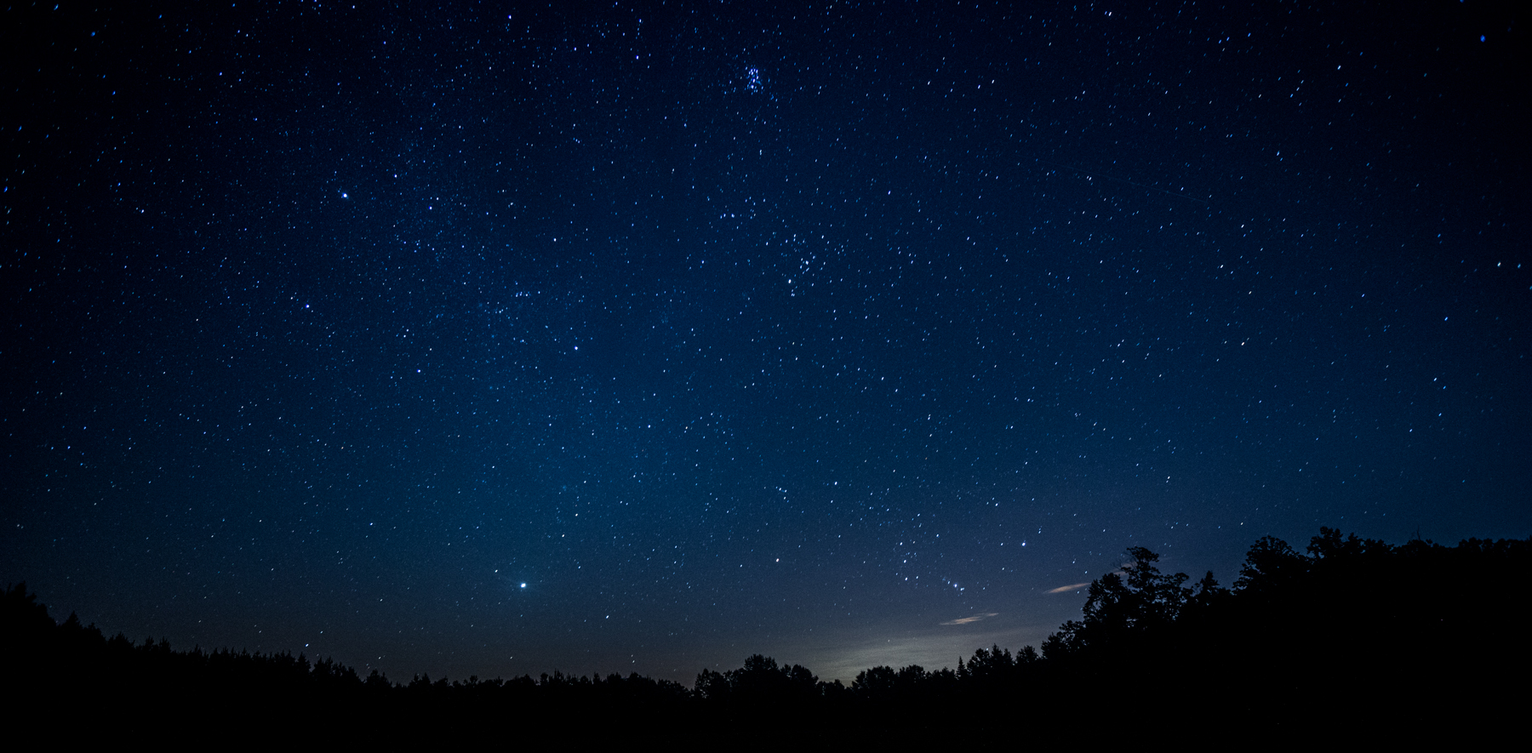
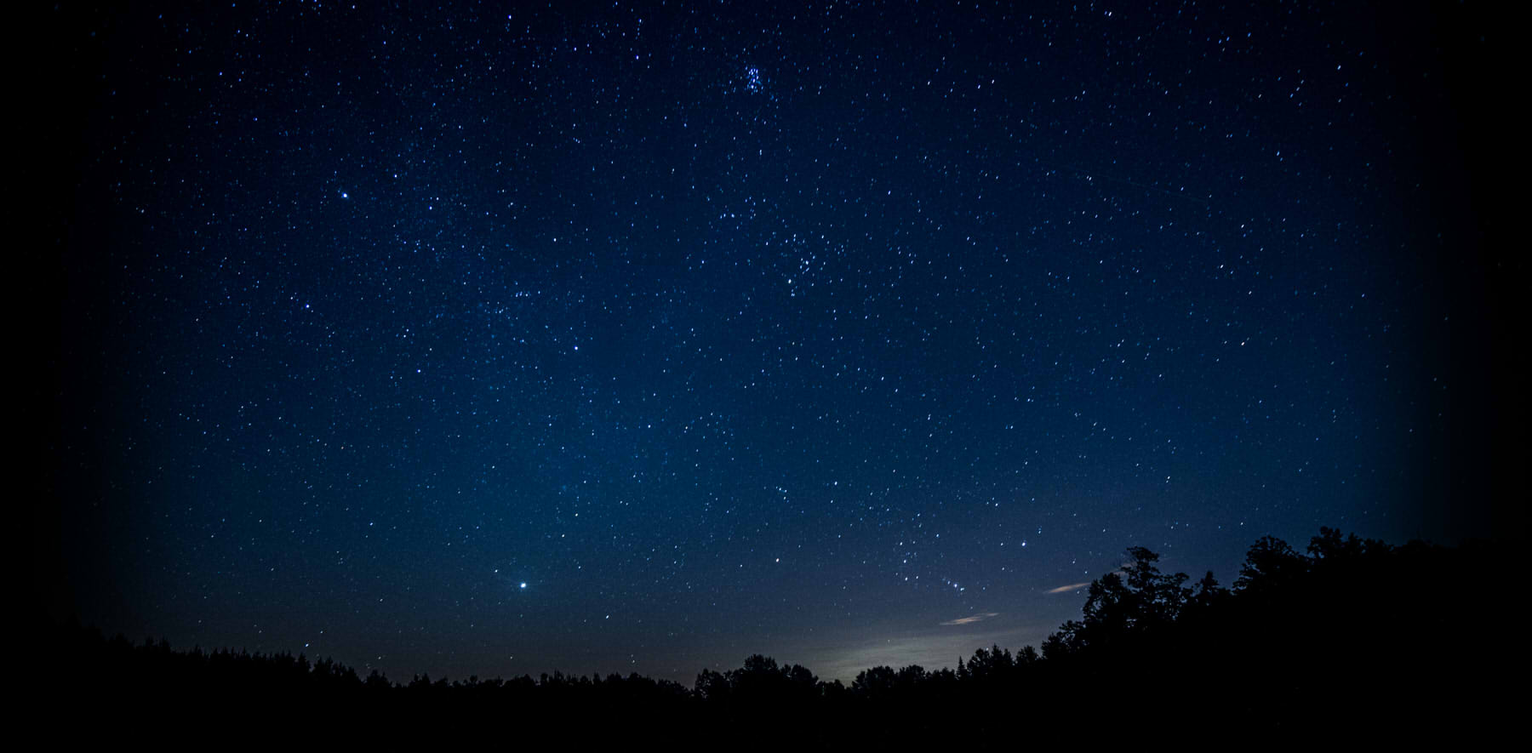
more styling

Changed region(s): [[0.9022, 0.2746, 1.0, 0.7322], [0.0, 0.5186, 0.0933, 0.8237]]

diff --git a/script.js b/script.js
@@ -1,3 +1,3 @@
 (()=>{var me=(v,c)=>()=>(c||v((c={exports:{}}).exports,c),c.exports);var re=me((k,B)=>{(function(v,c){typeof k=="object"&&typeof B=="object"?B.exports=c():typeof define=="function"&&define.amd?define("Typewriter",[],c):typeof k=="object"?k.Typewriter=c():v.Typewriter=c()})(typeof self!="undefined"?self:k,function(){return function(v){var c={};function r(n){if(c[n])return c[n].exports;var o=c[n]={i:n,l:!1,exports:{}};return v[n].call(o.exports,o,o.exports,r),o.l=!0,o.exports}return r.m=v,r.c=c,r.d=function(n,o,p){r.o(n,o)||Object.defineProperty(n,o,{enumerable:!0,get:p})},r.r=function(n){typeof Symbol!="undefined"&&Symbol.toStringTag&&Object.defineProperty(n,Symbol.toStringTag,{value:"Module"}),Object.defineProperty(n,"__esModule",{value:!0})},r.t=function(n,o){if(1&o&&(n=r(n)),8&o||4&o&&typeof n=="object"&&n&&n.__esModule)return n;var p=Object.create(null);if(r.r(p),Object.defineProperty(p,"default",{enumerable:!0,value:n}),2&o&&typeof n!="string")for(var b in n)r.d(p,b,function(A){return n[A]}.bind(null,b));return p},r.n=function(n){var o=n&&n.__esModule?function(){return n.default}:function(){return n};return r.d(o,"a",o),o},r.o=function(n,o){return Object.prototype.hasOwnProperty.call(n,o)},r.p="",r(r.s=3)}([,function(v,c,r){(function(n){for(var o=r(11),p=typeof window=="undefined"?n:window,b=["moz","webkit"],A="AnimationFrame",T=p["request"+A],h=p["cancel"+A]||p["cancelRequest"+A],g=0;!T&&g<b.length;g++)T=p[b[g]+"Request"+A],h=p[b[g]+"Cancel"+A]||p[b[g]+"CancelRequest"+A];if(!T||!h){var _=0,L=0,N=[];T=function(S){if(N.length===0){var y=o(),f=Math.max(0,1e3/60-(y-_));_=f+y,setTimeout(function(){var C=N.slice(0);N.length=0;for(var w=0;w<C.length;w++)if(!C[w].cancelled)try{C[w].callback(_)}catch(P){setTimeout(function(){throw P},0)}},Math.round(f))}return N.push({handle:++L,callback:S,cancelled:!1}),L},h=function(S){for(var y=0;y<N.length;y++)N[y].handle===S&&(N[y].cancelled=!0)}}v.exports=function(S){return T.call(p,S)},v.exports.cancel=function(){h.apply(p,arguments)},v.exports.polyfill=function(S){S||(S=p),S.requestAnimationFrame=T,S.cancelAnimationFrame=h}}).call(this,r(4))},,function(v,c,r){"use strict";r.r(c),r.d(c,"default",function(){return ae});var n=r(1),o=r.n(n),p=function(i){return new RegExp(/<[a-z][\s\S]*>/i).test(i)},b=function(i){var a=document.createElement("div");return a.innerHTML=i,a.childNodes},A=function(i,a){return Math.floor(Math.random()*(a-i+1))+i},T=function(i){var a=document.createElement("style");a.appendChild(document.createTextNode(i)),document.head.appendChild(a)},h="TYPE_CHARACTER",g="REMOVE_CHARACTER",_="REMOVE_ALL",L="REMOVE_LAST_VISIBLE_NODE",N="PAUSE_FOR",S="CALL_FUNCTION",y="ADD_HTML_TAG_ELEMENT",f="CHANGE_DELETE_SPEED",C="CHANGE_DELAY",w="CHANGE_CURSOR",P="PASTE_STRING",I="HTML_TAG",oe="TEXT_NODE";function z(i,a){var l=Object.keys(i);if(Object.getOwnPropertySymbols){var s=Object.getOwnPropertySymbols(i);a&&(s=s.filter(function(x){return Object.getOwnPropertyDescriptor(i,x).enumerable})),l.push.apply(l,s)}return l}function F(i){for(var a=1;a<arguments.length;a++){var l=arguments[a]!=null?arguments[a]:{};a%2?z(Object(l),!0).forEach(function(s){m(i,s,l[s])}):Object.getOwnPropertyDescriptors?Object.defineProperties(i,Object.getOwnPropertyDescriptors(l)):z(Object(l)).forEach(function(s){Object.defineProperty(i,s,Object.getOwnPropertyDescriptor(l,s))})}return i}function j(i){return function(a){if(Array.isArray(a))return U(a)}(i)||function(a){if(typeof Symbol!="undefined"&&Symbol.iterator in Object(a))return Array.from(a)}(i)||function(a,l){if(!!a){if(typeof a=="string")return U(a,l);var s=Object.prototype.toString.call(a).slice(8,-1);if(s==="Object"&&a.constructor&&(s=a.constructor.name),s==="Map"||s==="Set")return Array.from(a);if(s==="Arguments"||/^(?:Ui|I)nt(?:8|16|32)(?:Clamped)?Array$/.test(s))return U(a,l)}}(i)||function(){throw new TypeError(`Invalid attempt to spread non-iterable instance.
-In order to be iterable, non-array objects must have a [Symbol.iterator]() method.`)}()}function U(i,a){(a==null||a>i.length)&&(a=i.length);for(var l=0,s=new Array(a);l<a;l++)s[l]=i[l];return s}function J(i,a){for(var l=0;l<a.length;l++){var s=a[l];s.enumerable=s.enumerable||!1,s.configurable=!0,"value"in s&&(s.writable=!0),Object.defineProperty(i,s.key,s)}}function m(i,a,l){return a in i?Object.defineProperty(i,a,{value:l,enumerable:!0,configurable:!0,writable:!0}):i[a]=l,i}var ae=function(){function i(x,X){var e=this;if(function(t,d){if(!(t instanceof d))throw new TypeError("Cannot call a class as a function")}(this,i),m(this,"state",{cursorAnimation:null,lastFrameTime:null,pauseUntil:null,eventQueue:[],eventLoop:null,eventLoopPaused:!1,reverseCalledEvents:[],calledEvents:[],visibleNodes:[],initialOptions:null,elements:{container:null,wrapper:document.createElement("span"),cursor:document.createElement("span")}}),m(this,"options",{strings:null,cursor:"|",delay:"natural",pauseFor:1500,deleteSpeed:"natural",loop:!1,autoStart:!1,devMode:!1,skipAddStyles:!1,wrapperClassName:"Typewriter__wrapper",cursorClassName:"Typewriter__cursor",stringSplitter:null,onCreateTextNode:null,onRemoveNode:null}),m(this,"setupWrapperElement",function(){e.state.elements.container&&(e.state.elements.wrapper.className=e.options.wrapperClassName,e.state.elements.cursor.className=e.options.cursorClassName,e.state.elements.cursor.innerHTML=e.options.cursor,e.state.elements.container.innerHTML="",e.state.elements.container.appendChild(e.state.elements.wrapper),e.state.elements.container.appendChild(e.state.elements.cursor))}),m(this,"start",function(){return e.state.eventLoopPaused=!1,e.runEventLoop(),e}),m(this,"pause",function(){return e.state.eventLoopPaused=!0,e}),m(this,"stop",function(){return e.state.eventLoop&&(Object(n.cancel)(e.state.eventLoop),e.state.eventLoop=null),e}),m(this,"pauseFor",function(t){return e.addEventToQueue(N,{ms:t}),e}),m(this,"typeOutAllStrings",function(){return typeof e.options.strings=="string"?(e.typeString(e.options.strings).pauseFor(e.options.pauseFor),e):(e.options.strings.forEach(function(t){e.typeString(t).pauseFor(e.options.pauseFor).deleteAll(e.options.deleteSpeed)}),e)}),m(this,"typeString",function(t){var d=arguments.length>1&&arguments[1]!==void 0?arguments[1]:null;if(p(t))return e.typeOutHTMLString(t,d);if(t){var E=e.options||{},u=E.stringSplitter,M=typeof u=="function"?u(t):t.split("");e.typeCharacters(M,d)}return e}),m(this,"pasteString",function(t){var d=arguments.length>1&&arguments[1]!==void 0?arguments[1]:null;return p(t)?e.typeOutHTMLString(t,d,!0):(t&&e.addEventToQueue(P,{character:t,node:d}),e)}),m(this,"typeOutHTMLString",function(t){var d=arguments.length>1&&arguments[1]!==void 0?arguments[1]:null,E=arguments.length>2?arguments[2]:void 0,u=b(t);if(u.length>0)for(var M=0;M<u.length;M++){var O=u[M],D=O.innerHTML;O&&O.nodeType!==3?(O.innerHTML="",e.addEventToQueue(y,{node:O,parentNode:d}),E?e.pasteString(D,O):e.typeString(D,O)):O.textContent&&(E?e.pasteString(O.textContent,d):e.typeString(O.textContent,d))}return e}),m(this,"deleteAll",function(){var t=arguments.length>0&&arguments[0]!==void 0?arguments[0]:"natural";return e.addEventToQueue(_,{speed:t}),e}),m(this,"changeDeleteSpeed",function(t){if(!t)throw new Error("Must provide new delete speed");return e.addEventToQueue(f,{speed:t}),e}),m(this,"changeDelay",function(t){if(!t)throw new Error("Must provide new delay");return e.addEventToQueue(C,{delay:t}),e}),m(this,"changeCursor",function(t){if(!t)throw new Error("Must provide new cursor");return e.addEventToQueue(w,{cursor:t}),e}),m(this,"deleteChars",function(t){if(!t)throw new Error("Must provide amount of characters to delete");for(var d=0;d<t;d++)e.addEventToQueue(g);return e}),m(this,"callFunction",function(t,d){if(!t||typeof t!="function")throw new Error("Callbak must be a function");return e.addEventToQueue(S,{cb:t,thisArg:d}),e}),m(this,"typeCharacters",function(t){var d=arguments.length>1&&arguments[1]!==void 0?arguments[1]:null;if(!t||!Array.isArray(t))throw new Error("Characters must be an array");return t.forEach(function(E){e.addEventToQueue(h,{character:E,node:d})}),e}),m(this,"removeCharacters",function(t){if(!t||!Array.isArray(t))throw new Error("Characters must be an array");return t.forEach(function(){e.addEventToQueue(g)}),e}),m(this,"addEventToQueue",function(t,d){var E=arguments.length>2&&arguments[2]!==void 0&&arguments[2];return e.addEventToStateProperty(t,d,E,"eventQueue")}),m(this,"addReverseCalledEvent",function(t,d){var E=arguments.length>2&&arguments[2]!==void 0&&arguments[2],u=e.options.loop;return u?e.addEventToStateProperty(t,d,E,"reverseCalledEvents"):e}),m(this,"addEventToStateProperty",function(t,d){var E=arguments.length>2&&arguments[2]!==void 0&&arguments[2],u=arguments.length>3?arguments[3]:void 0,M={eventName:t,eventArgs:d||{}};return e.state[u]=E?[M].concat(j(e.state[u])):[].concat(j(e.state[u]),[M]),e}),m(this,"runEventLoop",function(){e.state.lastFrameTime||(e.state.lastFrameTime=Date.now());var t=Date.now(),d=t-e.state.lastFrameTime;if(!e.state.eventQueue.length){if(!e.options.loop)return;e.state.eventQueue=j(e.state.calledEvents),e.state.calledEvents=[],e.options=F({},e.state.initialOptions)}if(e.state.eventLoop=o()(e.runEventLoop),!e.state.eventLoopPaused){if(e.state.pauseUntil){if(t<e.state.pauseUntil)return;e.state.pauseUntil=null}var E=j(e.state.eventQueue),u=E.shift(),M=0;if(!(d<=(M=u.eventName===L||u.eventName===g?e.options.deleteSpeed==="natural"?A(40,80):e.options.deleteSpeed:e.options.delay==="natural"?A(120,160):e.options.delay))){var O=u.eventName,D=u.eventArgs;switch(e.logInDevMode({currentEvent:u,state:e.state,delay:M}),O){case P:case h:var G=D.character,K=D.node,Z=document.createTextNode(G),R=Z;e.options.onCreateTextNode&&typeof e.options.onCreateTextNode=="function"&&(R=e.options.onCreateTextNode(G,Z)),R&&(K?K.appendChild(R):e.state.elements.wrapper.appendChild(R)),e.state.visibleNodes=[].concat(j(e.state.visibleNodes),[{type:oe,character:G,node:R}]);break;case g:E.unshift({eventName:L,eventArgs:{removingCharacterNode:!0}});break;case N:var ie=u.eventArgs.ms;e.state.pauseUntil=Date.now()+parseInt(ie);break;case S:var ee=u.eventArgs,se=ee.cb,ue=ee.thisArg;se.call(ue,{elements:e.state.elements});break;case y:var te=u.eventArgs,q=te.node,W=te.parentNode;W?W.appendChild(q):e.state.elements.wrapper.appendChild(q),e.state.visibleNodes=[].concat(j(e.state.visibleNodes),[{type:I,node:q,parentNode:W||e.state.elements.wrapper}]);break;case _:var ce=e.state.visibleNodes,V=D.speed,Q=[];V&&Q.push({eventName:f,eventArgs:{speed:V,temp:!0}});for(var ne=0,le=ce.length;ne<le;ne++)Q.push({eventName:L,eventArgs:{removingCharacterNode:!1}});V&&Q.push({eventName:f,eventArgs:{speed:e.options.deleteSpeed,temp:!0}}),E.unshift.apply(E,Q);break;case L:var pe=u.eventArgs.removingCharacterNode;if(e.state.visibleNodes.length){var Y=e.state.visibleNodes.pop(),de=Y.type,H=Y.node,fe=Y.character;e.options.onRemoveNode&&typeof e.options.onRemoveNode=="function"&&e.options.onRemoveNode({node:H,character:fe}),H&&H.parentNode.removeChild(H),de===I&&pe&&E.unshift({eventName:L,eventArgs:{}})}break;case f:e.options.deleteSpeed=u.eventArgs.speed;break;case C:e.options.delay=u.eventArgs.delay;break;case w:e.options.cursor=u.eventArgs.cursor,e.state.elements.cursor.innerHTML=u.eventArgs.cursor}e.options.loop&&(u.eventName===L||u.eventArgs&&u.eventArgs.temp||(e.state.calledEvents=[].concat(j(e.state.calledEvents),[u]))),e.state.eventQueue=E,e.state.lastFrameTime=t}}}),x)if(typeof x=="string"){var $=document.querySelector(x);if(!$)throw new Error("Could not find container element");this.state.elements.container=$}else this.state.elements.container=x;X&&(this.options=F(F({},this.options),X)),this.state.initialOptions=F({},this.options),this.init()}var a,l,s;return a=i,(l=[{key:"init",value:function(){this.setupWrapperElement(),this.addEventToQueue(w,{cursor:this.options.cursor},!0),this.addEventToQueue(_,null,!0),!window||window.___TYPEWRITER_JS_STYLES_ADDED___||this.options.skipAddStyles||(T(".Typewriter__cursor{-webkit-animation:Typewriter-cursor 1s infinite;animation:Typewriter-cursor 1s infinite;margin-left:1px}@-webkit-keyframes Typewriter-cursor{0%{opacity:0}50%{opacity:1}100%{opacity:0}}@keyframes Typewriter-cursor{0%{opacity:0}50%{opacity:1}100%{opacity:0}}"),window.___TYPEWRITER_JS_STYLES_ADDED___=!0),this.options.autoStart===!0&&this.options.strings&&this.typeOutAllStrings().start()}},{key:"logInDevMode",value:function(x){this.options.devMode&&console.log(x)}}])&&J(a.prototype,l),s&&J(a,s),i}()},function(v,c){var r;r=function(){return this}();try{r=r||new Function("return this")()}catch(n){typeof window=="object"&&(r=window)}v.exports=r},,,,,,,function(v,c,r){(function(n){(function(){var o,p,b,A,T,h;typeof performance!="undefined"&&performance!==null&&performance.now?v.exports=function(){return performance.now()}:n!=null&&n.hrtime?(v.exports=function(){return(o()-T)/1e6},p=n.hrtime,A=(o=function(){var g;return 1e9*(g=p())[0]+g[1]})(),h=1e9*n.uptime(),T=A-h):Date.now?(v.exports=function(){return Date.now()-b},b=Date.now()):(v.exports=function(){return new Date().getTime()-b},b=new Date().getTime())}).call(this)}).call(this,r(12))},function(v,c){var r,n,o=v.exports={};function p(){throw new Error("setTimeout has not been defined")}function b(){throw new Error("clearTimeout has not been defined")}function A(f){if(r===setTimeout)return setTimeout(f,0);if((r===p||!r)&&setTimeout)return r=setTimeout,setTimeout(f,0);try{return r(f,0)}catch(C){try{return r.call(null,f,0)}catch(w){return r.call(this,f,0)}}}(function(){try{r=typeof setTimeout=="function"?setTimeout:p}catch(f){r=p}try{n=typeof clearTimeout=="function"?clearTimeout:b}catch(f){n=b}})();var T,h=[],g=!1,_=-1;function L(){g&&T&&(g=!1,T.length?h=T.concat(h):_=-1,h.length&&N())}function N(){if(!g){var f=A(L);g=!0;for(var C=h.length;C;){for(T=h,h=[];++_<C;)T&&T[_].run();_=-1,C=h.length}T=null,g=!1,function(w){if(n===clearTimeout)return clearTimeout(w);if((n===b||!n)&&clearTimeout)return n=clearTimeout,clearTimeout(w);try{n(w)}catch(P){try{return n.call(null,w)}catch(I){return n.call(this,w)}}}(f)}}function S(f,C){this.fun=f,this.array=C}function y(){}o.nextTick=function(f){var C=new Array(arguments.length-1);if(arguments.length>1)for(var w=1;w<arguments.length;w++)C[w-1]=arguments[w];h.push(new S(f,C)),h.length!==1||g||A(N)},S.prototype.run=function(){this.fun.apply(null,this.array)},o.title="browser",o.browser=!0,o.env={},o.argv=[],o.version="",o.versions={},o.on=y,o.addListener=y,o.once=y,o.off=y,o.removeListener=y,o.removeAllListeners=y,o.emit=y,o.prependListener=y,o.prependOnceListener=y,o.listeners=function(f){return[]},o.binding=function(f){throw new Error("process.binding is not supported")},o.cwd=function(){return"/"},o.chdir=function(f){throw new Error("process.chdir is not supported")},o.umask=function(){return 0}}]).default})});var ve=re();window.addEventListener("DOMContentLoaded",()=>{let v=document.getElementById("cycle"),c=["Interactive Experiences","Functional Websites","Your Next Dream Project"],r=1e3;new ve(v,{loop:!0,delay:75,deleteSpeed:25}).pauseFor(r).typeString(c[0]).pauseFor(r*2).deleteChars(c[0].length).pauseFor(r).typeString(c[1]).pauseFor(r*2).deleteChars(c[1].length).pauseFor(r).typeString(c[2]).pauseFor(r*2).deleteChars(c[2].length).pauseFor(r).start()});})();
+In order to be iterable, non-array objects must have a [Symbol.iterator]() method.`)}()}function U(i,a){(a==null||a>i.length)&&(a=i.length);for(var l=0,s=new Array(a);l<a;l++)s[l]=i[l];return s}function J(i,a){for(var l=0;l<a.length;l++){var s=a[l];s.enumerable=s.enumerable||!1,s.configurable=!0,"value"in s&&(s.writable=!0),Object.defineProperty(i,s.key,s)}}function m(i,a,l){return a in i?Object.defineProperty(i,a,{value:l,enumerable:!0,configurable:!0,writable:!0}):i[a]=l,i}var ae=function(){function i(x,X){var e=this;if(function(t,d){if(!(t instanceof d))throw new TypeError("Cannot call a class as a function")}(this,i),m(this,"state",{cursorAnimation:null,lastFrameTime:null,pauseUntil:null,eventQueue:[],eventLoop:null,eventLoopPaused:!1,reverseCalledEvents:[],calledEvents:[],visibleNodes:[],initialOptions:null,elements:{container:null,wrapper:document.createElement("span"),cursor:document.createElement("span")}}),m(this,"options",{strings:null,cursor:"|",delay:"natural",pauseFor:1500,deleteSpeed:"natural",loop:!1,autoStart:!1,devMode:!1,skipAddStyles:!1,wrapperClassName:"Typewriter__wrapper",cursorClassName:"Typewriter__cursor",stringSplitter:null,onCreateTextNode:null,onRemoveNode:null}),m(this,"setupWrapperElement",function(){e.state.elements.container&&(e.state.elements.wrapper.className=e.options.wrapperClassName,e.state.elements.cursor.className=e.options.cursorClassName,e.state.elements.cursor.innerHTML=e.options.cursor,e.state.elements.container.innerHTML="",e.state.elements.container.appendChild(e.state.elements.wrapper),e.state.elements.container.appendChild(e.state.elements.cursor))}),m(this,"start",function(){return e.state.eventLoopPaused=!1,e.runEventLoop(),e}),m(this,"pause",function(){return e.state.eventLoopPaused=!0,e}),m(this,"stop",function(){return e.state.eventLoop&&(Object(n.cancel)(e.state.eventLoop),e.state.eventLoop=null),e}),m(this,"pauseFor",function(t){return e.addEventToQueue(N,{ms:t}),e}),m(this,"typeOutAllStrings",function(){return typeof e.options.strings=="string"?(e.typeString(e.options.strings).pauseFor(e.options.pauseFor),e):(e.options.strings.forEach(function(t){e.typeString(t).pauseFor(e.options.pauseFor).deleteAll(e.options.deleteSpeed)}),e)}),m(this,"typeString",function(t){var d=arguments.length>1&&arguments[1]!==void 0?arguments[1]:null;if(p(t))return e.typeOutHTMLString(t,d);if(t){var E=e.options||{},u=E.stringSplitter,M=typeof u=="function"?u(t):t.split("");e.typeCharacters(M,d)}return e}),m(this,"pasteString",function(t){var d=arguments.length>1&&arguments[1]!==void 0?arguments[1]:null;return p(t)?e.typeOutHTMLString(t,d,!0):(t&&e.addEventToQueue(P,{character:t,node:d}),e)}),m(this,"typeOutHTMLString",function(t){var d=arguments.length>1&&arguments[1]!==void 0?arguments[1]:null,E=arguments.length>2?arguments[2]:void 0,u=b(t);if(u.length>0)for(var M=0;M<u.length;M++){var O=u[M],D=O.innerHTML;O&&O.nodeType!==3?(O.innerHTML="",e.addEventToQueue(y,{node:O,parentNode:d}),E?e.pasteString(D,O):e.typeString(D,O)):O.textContent&&(E?e.pasteString(O.textContent,d):e.typeString(O.textContent,d))}return e}),m(this,"deleteAll",function(){var t=arguments.length>0&&arguments[0]!==void 0?arguments[0]:"natural";return e.addEventToQueue(_,{speed:t}),e}),m(this,"changeDeleteSpeed",function(t){if(!t)throw new Error("Must provide new delete speed");return e.addEventToQueue(f,{speed:t}),e}),m(this,"changeDelay",function(t){if(!t)throw new Error("Must provide new delay");return e.addEventToQueue(C,{delay:t}),e}),m(this,"changeCursor",function(t){if(!t)throw new Error("Must provide new cursor");return e.addEventToQueue(w,{cursor:t}),e}),m(this,"deleteChars",function(t){if(!t)throw new Error("Must provide amount of characters to delete");for(var d=0;d<t;d++)e.addEventToQueue(g);return e}),m(this,"callFunction",function(t,d){if(!t||typeof t!="function")throw new Error("Callbak must be a function");return e.addEventToQueue(S,{cb:t,thisArg:d}),e}),m(this,"typeCharacters",function(t){var d=arguments.length>1&&arguments[1]!==void 0?arguments[1]:null;if(!t||!Array.isArray(t))throw new Error("Characters must be an array");return t.forEach(function(E){e.addEventToQueue(h,{character:E,node:d})}),e}),m(this,"removeCharacters",function(t){if(!t||!Array.isArray(t))throw new Error("Characters must be an array");return t.forEach(function(){e.addEventToQueue(g)}),e}),m(this,"addEventToQueue",function(t,d){var E=arguments.length>2&&arguments[2]!==void 0&&arguments[2];return e.addEventToStateProperty(t,d,E,"eventQueue")}),m(this,"addReverseCalledEvent",function(t,d){var E=arguments.length>2&&arguments[2]!==void 0&&arguments[2],u=e.options.loop;return u?e.addEventToStateProperty(t,d,E,"reverseCalledEvents"):e}),m(this,"addEventToStateProperty",function(t,d){var E=arguments.length>2&&arguments[2]!==void 0&&arguments[2],u=arguments.length>3?arguments[3]:void 0,M={eventName:t,eventArgs:d||{}};return e.state[u]=E?[M].concat(j(e.state[u])):[].concat(j(e.state[u]),[M]),e}),m(this,"runEventLoop",function(){e.state.lastFrameTime||(e.state.lastFrameTime=Date.now());var t=Date.now(),d=t-e.state.lastFrameTime;if(!e.state.eventQueue.length){if(!e.options.loop)return;e.state.eventQueue=j(e.state.calledEvents),e.state.calledEvents=[],e.options=F({},e.state.initialOptions)}if(e.state.eventLoop=o()(e.runEventLoop),!e.state.eventLoopPaused){if(e.state.pauseUntil){if(t<e.state.pauseUntil)return;e.state.pauseUntil=null}var E=j(e.state.eventQueue),u=E.shift(),M=0;if(!(d<=(M=u.eventName===L||u.eventName===g?e.options.deleteSpeed==="natural"?A(40,80):e.options.deleteSpeed:e.options.delay==="natural"?A(120,160):e.options.delay))){var O=u.eventName,D=u.eventArgs;switch(e.logInDevMode({currentEvent:u,state:e.state,delay:M}),O){case P:case h:var G=D.character,K=D.node,Z=document.createTextNode(G),R=Z;e.options.onCreateTextNode&&typeof e.options.onCreateTextNode=="function"&&(R=e.options.onCreateTextNode(G,Z)),R&&(K?K.appendChild(R):e.state.elements.wrapper.appendChild(R)),e.state.visibleNodes=[].concat(j(e.state.visibleNodes),[{type:oe,character:G,node:R}]);break;case g:E.unshift({eventName:L,eventArgs:{removingCharacterNode:!0}});break;case N:var ie=u.eventArgs.ms;e.state.pauseUntil=Date.now()+parseInt(ie);break;case S:var ee=u.eventArgs,se=ee.cb,ue=ee.thisArg;se.call(ue,{elements:e.state.elements});break;case y:var te=u.eventArgs,q=te.node,W=te.parentNode;W?W.appendChild(q):e.state.elements.wrapper.appendChild(q),e.state.visibleNodes=[].concat(j(e.state.visibleNodes),[{type:I,node:q,parentNode:W||e.state.elements.wrapper}]);break;case _:var ce=e.state.visibleNodes,V=D.speed,Q=[];V&&Q.push({eventName:f,eventArgs:{speed:V,temp:!0}});for(var ne=0,le=ce.length;ne<le;ne++)Q.push({eventName:L,eventArgs:{removingCharacterNode:!1}});V&&Q.push({eventName:f,eventArgs:{speed:e.options.deleteSpeed,temp:!0}}),E.unshift.apply(E,Q);break;case L:var pe=u.eventArgs.removingCharacterNode;if(e.state.visibleNodes.length){var Y=e.state.visibleNodes.pop(),de=Y.type,H=Y.node,fe=Y.character;e.options.onRemoveNode&&typeof e.options.onRemoveNode=="function"&&e.options.onRemoveNode({node:H,character:fe}),H&&H.parentNode.removeChild(H),de===I&&pe&&E.unshift({eventName:L,eventArgs:{}})}break;case f:e.options.deleteSpeed=u.eventArgs.speed;break;case C:e.options.delay=u.eventArgs.delay;break;case w:e.options.cursor=u.eventArgs.cursor,e.state.elements.cursor.innerHTML=u.eventArgs.cursor}e.options.loop&&(u.eventName===L||u.eventArgs&&u.eventArgs.temp||(e.state.calledEvents=[].concat(j(e.state.calledEvents),[u]))),e.state.eventQueue=E,e.state.lastFrameTime=t}}}),x)if(typeof x=="string"){var $=document.querySelector(x);if(!$)throw new Error("Could not find container element");this.state.elements.container=$}else this.state.elements.container=x;X&&(this.options=F(F({},this.options),X)),this.state.initialOptions=F({},this.options),this.init()}var a,l,s;return a=i,(l=[{key:"init",value:function(){this.setupWrapperElement(),this.addEventToQueue(w,{cursor:this.options.cursor},!0),this.addEventToQueue(_,null,!0),!window||window.___TYPEWRITER_JS_STYLES_ADDED___||this.options.skipAddStyles||(T(".Typewriter__cursor{-webkit-animation:Typewriter-cursor 1s infinite;animation:Typewriter-cursor 1s infinite;margin-left:1px}@-webkit-keyframes Typewriter-cursor{0%{opacity:0}50%{opacity:1}100%{opacity:0}}@keyframes Typewriter-cursor{0%{opacity:0}50%{opacity:1}100%{opacity:0}}"),window.___TYPEWRITER_JS_STYLES_ADDED___=!0),this.options.autoStart===!0&&this.options.strings&&this.typeOutAllStrings().start()}},{key:"logInDevMode",value:function(x){this.options.devMode&&console.log(x)}}])&&J(a.prototype,l),s&&J(a,s),i}()},function(v,c){var r;r=function(){return this}();try{r=r||new Function("return this")()}catch(n){typeof window=="object"&&(r=window)}v.exports=r},,,,,,,function(v,c,r){(function(n){(function(){var o,p,b,A,T,h;typeof performance!="undefined"&&performance!==null&&performance.now?v.exports=function(){return performance.now()}:n!=null&&n.hrtime?(v.exports=function(){return(o()-T)/1e6},p=n.hrtime,A=(o=function(){var g;return 1e9*(g=p())[0]+g[1]})(),h=1e9*n.uptime(),T=A-h):Date.now?(v.exports=function(){return Date.now()-b},b=Date.now()):(v.exports=function(){return new Date().getTime()-b},b=new Date().getTime())}).call(this)}).call(this,r(12))},function(v,c){var r,n,o=v.exports={};function p(){throw new Error("setTimeout has not been defined")}function b(){throw new Error("clearTimeout has not been defined")}function A(f){if(r===setTimeout)return setTimeout(f,0);if((r===p||!r)&&setTimeout)return r=setTimeout,setTimeout(f,0);try{return r(f,0)}catch(C){try{return r.call(null,f,0)}catch(w){return r.call(this,f,0)}}}(function(){try{r=typeof setTimeout=="function"?setTimeout:p}catch(f){r=p}try{n=typeof clearTimeout=="function"?clearTimeout:b}catch(f){n=b}})();var T,h=[],g=!1,_=-1;function L(){g&&T&&(g=!1,T.length?h=T.concat(h):_=-1,h.length&&N())}function N(){if(!g){var f=A(L);g=!0;for(var C=h.length;C;){for(T=h,h=[];++_<C;)T&&T[_].run();_=-1,C=h.length}T=null,g=!1,function(w){if(n===clearTimeout)return clearTimeout(w);if((n===b||!n)&&clearTimeout)return n=clearTimeout,clearTimeout(w);try{n(w)}catch(P){try{return n.call(null,w)}catch(I){return n.call(this,w)}}}(f)}}function S(f,C){this.fun=f,this.array=C}function y(){}o.nextTick=function(f){var C=new Array(arguments.length-1);if(arguments.length>1)for(var w=1;w<arguments.length;w++)C[w-1]=arguments[w];h.push(new S(f,C)),h.length!==1||g||A(N)},S.prototype.run=function(){this.fun.apply(null,this.array)},o.title="browser",o.browser=!0,o.env={},o.argv=[],o.version="",o.versions={},o.on=y,o.addListener=y,o.once=y,o.off=y,o.removeListener=y,o.removeAllListeners=y,o.emit=y,o.prependListener=y,o.prependOnceListener=y,o.listeners=function(f){return[]},o.binding=function(f){throw new Error("process.binding is not supported")},o.cwd=function(){return"/"},o.chdir=function(f){throw new Error("process.chdir is not supported")},o.umask=function(){return 0}}]).default})});var ve=re();window.addEventListener("DOMContentLoaded",()=>{let v=document.getElementById("cycle"),c=["Interactive Experiences","Functional Websites","Your Next Dream Project"],r=1500;new ve(v,{loop:!0,delay:75,deleteSpeed:25}).pauseFor(r).typeString(c[0]).pauseFor(r*2).deleteChars(c[0].length).pauseFor(r).typeString(c[1]).pauseFor(r*2).deleteChars(c[1].length).pauseFor(r).typeString(c[2]).pauseFor(r*2).deleteChars(c[2].length).pauseFor(r).start()});})();
 //# sourceMappingURL=script.js.map

diff --git a/styles.css b/styles.css
@@ -50,8 +50,9 @@ header {
     display: flex;
     flex-direction: column;
     justify-content: center;
-    background-color: rgb(48, 48, 63);
+    background-color: rgb(0, 0, 0);
     background-image: url('/images/nightsky.jpg');
+    background-repeat: no-repeat;
     background-position: 50% 92%;
     color: white;
     text-align: center;
@@ -83,4 +84,9 @@ h1 {
 
 .nav-spacer {
     min-height: 50px;
+}
+
+::selection {
+    background-color: rgb(228, 210, 174);
+    color: rgb(0, 0, 0);
 }

diff --git a/ts/index.ts b/ts/index.ts
@@ -4,7 +4,7 @@ const Typewriter = require('typewriter-effect/dist/core')
 window.addEventListener('DOMContentLoaded', () => {
     const cycleElement = document.getElementById('cycle')
     const text = ['Interactive Experiences', 'Functional Websites', 'Your Next Dream Project']
-    const pauseBetween = 1000
+    const pauseBetween = 1500
 
     const typewriter = new Typewriter(cycleElement, {
         loop: true,
